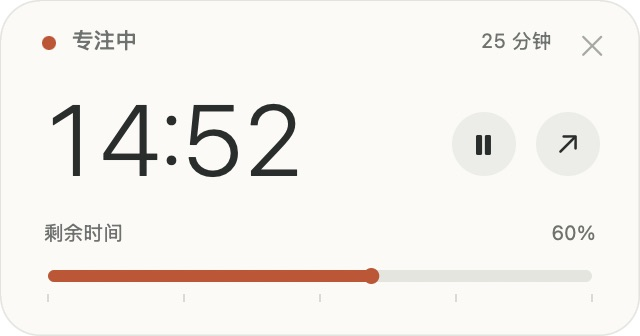
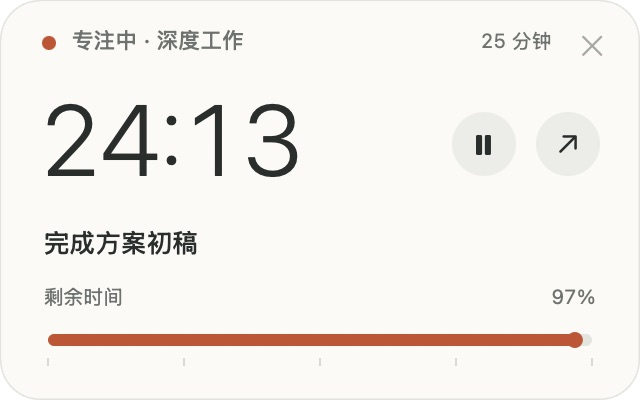
docs: verify floating goal layout and refresh screenshot

diff --git a/验证记录.md b/验证记录.md
@@ -73,4 +73,5 @@
 - 使用实际 Store / FloatingTimer 源码执行原生 AppKit 运行时检查，覆盖目标与标签、暂停、标签改名、完成待反馈、保存后隐藏、空白目标、长多行目标和休息切换；控件均位于窗口边界内，320 × 168 / 320 × 200 点布局切换通过。
 - 标签与目标只在状态变化时更新，不增加定时器或持续动画；每秒刷新仍仅更新倒计时和进度。未重新采样 CPU / 内存，历史数据见资源检查。
 - 正式应用已更新至 /Applications/专注镜.app 0.1.6；旧应用以 ZIP 归档，不保留第二份应用。安装前后正式数据文件 SHA256 一致，已有记录未改动。
-- 本轮电脑锁屏阻止了 Cua 目视预览，尚未补做新版界面截图；上述布局验证来自原生 AppKit 运行时检查。
+- 解锁后补做隔离实机界面检查：填写“完成方案初稿”、选择“深度工作”后，关闭主窗口仍显示标签和目标；暂停后保留信息、数字及色条变淡，再打开主窗口剩余时间仍为 24:12。空目标新轮次的浮窗不显示目标或占位文字，高度恢复为 168 点。两种截图分别为 640 × 400 / 640 × 336 像素（2 倍屏幕比例）。
+- GitHub 项目介绍已更新为新版有目标浮窗截图。目视验证使用独立演示数据；结束后正式记录文件 SHA256 与测试前一致，已重新打开正式目录。
